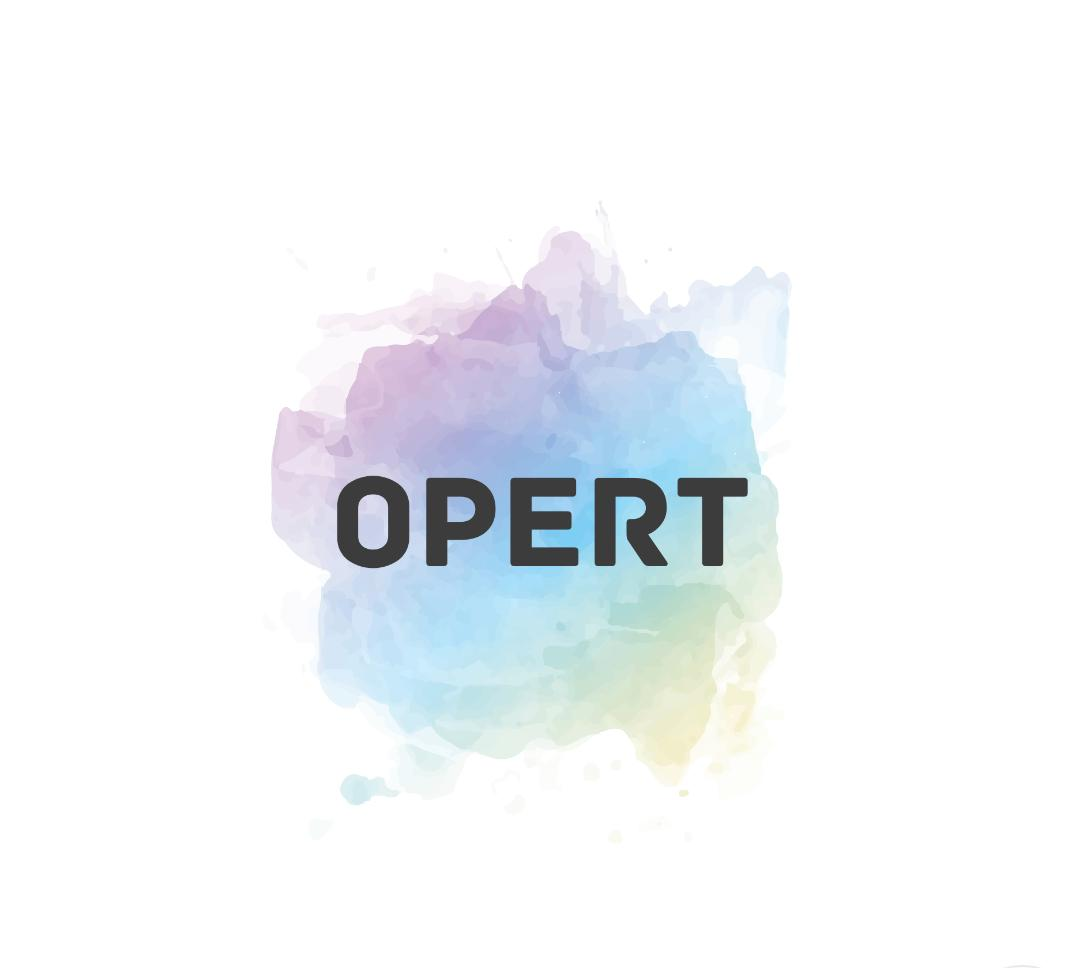
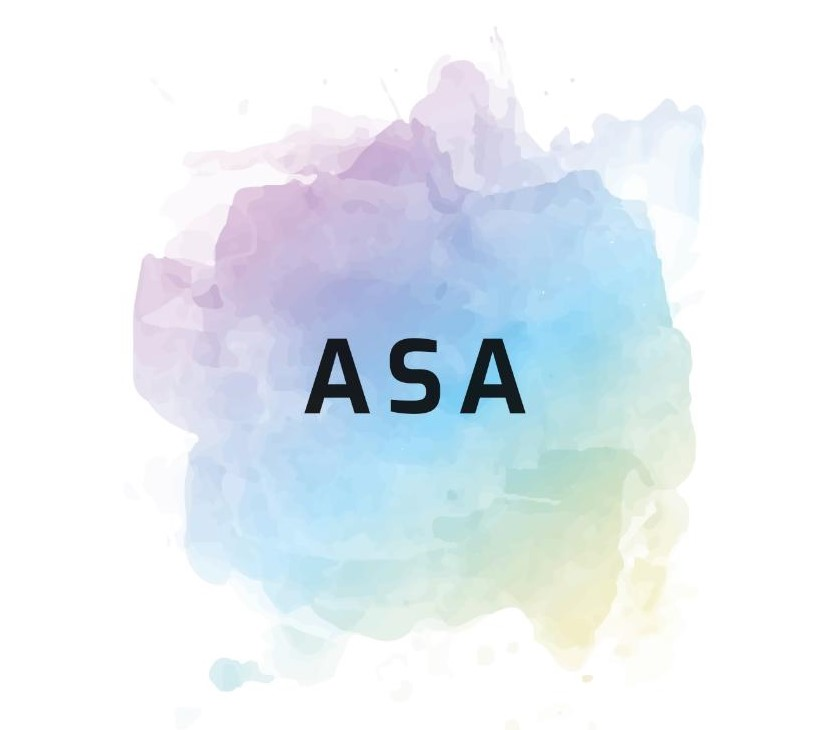
instagram page add

Changed region(s): [[0.1551, 0.0603, 0.8377, 0.9342], [0.2482, 0.9041, 0.3103, 0.9644]]

diff --git a/asa/public/index.html b/asa/public/index.html
@@ -11,7 +11,7 @@
       <link rel="stylesheet" href="%PUBLIC_URL%/css/media-queries.css" />
       <link rel="stylesheet" href="%PUBLIC_URL%/css/magnific-popup.css" />
 
-      <title>Opert</title>
+      <title>ASA Tech</title>
    </head>
 
    <body>

diff --git a/asa/src/Components/Footer.js b/asa/src/Components/Footer.js
@@ -8,7 +8,7 @@ const customSocial = [
    },
    {
       name: "instagram",
-      url: "http://instagram.com/tbaker_x",
+      url: "http://instagram.com/asa_tech_group",
       className: "fa fa-instagram",
    },
    {

diff --git a/asa/src/Components/Header.js b/asa/src/Components/Header.js
@@ -8,7 +8,7 @@ const customSocial = [
    },
    {
       name: "instagram",
-      url: "http://instagram.com/tbaker_x",
+      url: "http://instagram.com/asa_tech_group",
       className: "fa fa-instagram",
    },
    {
